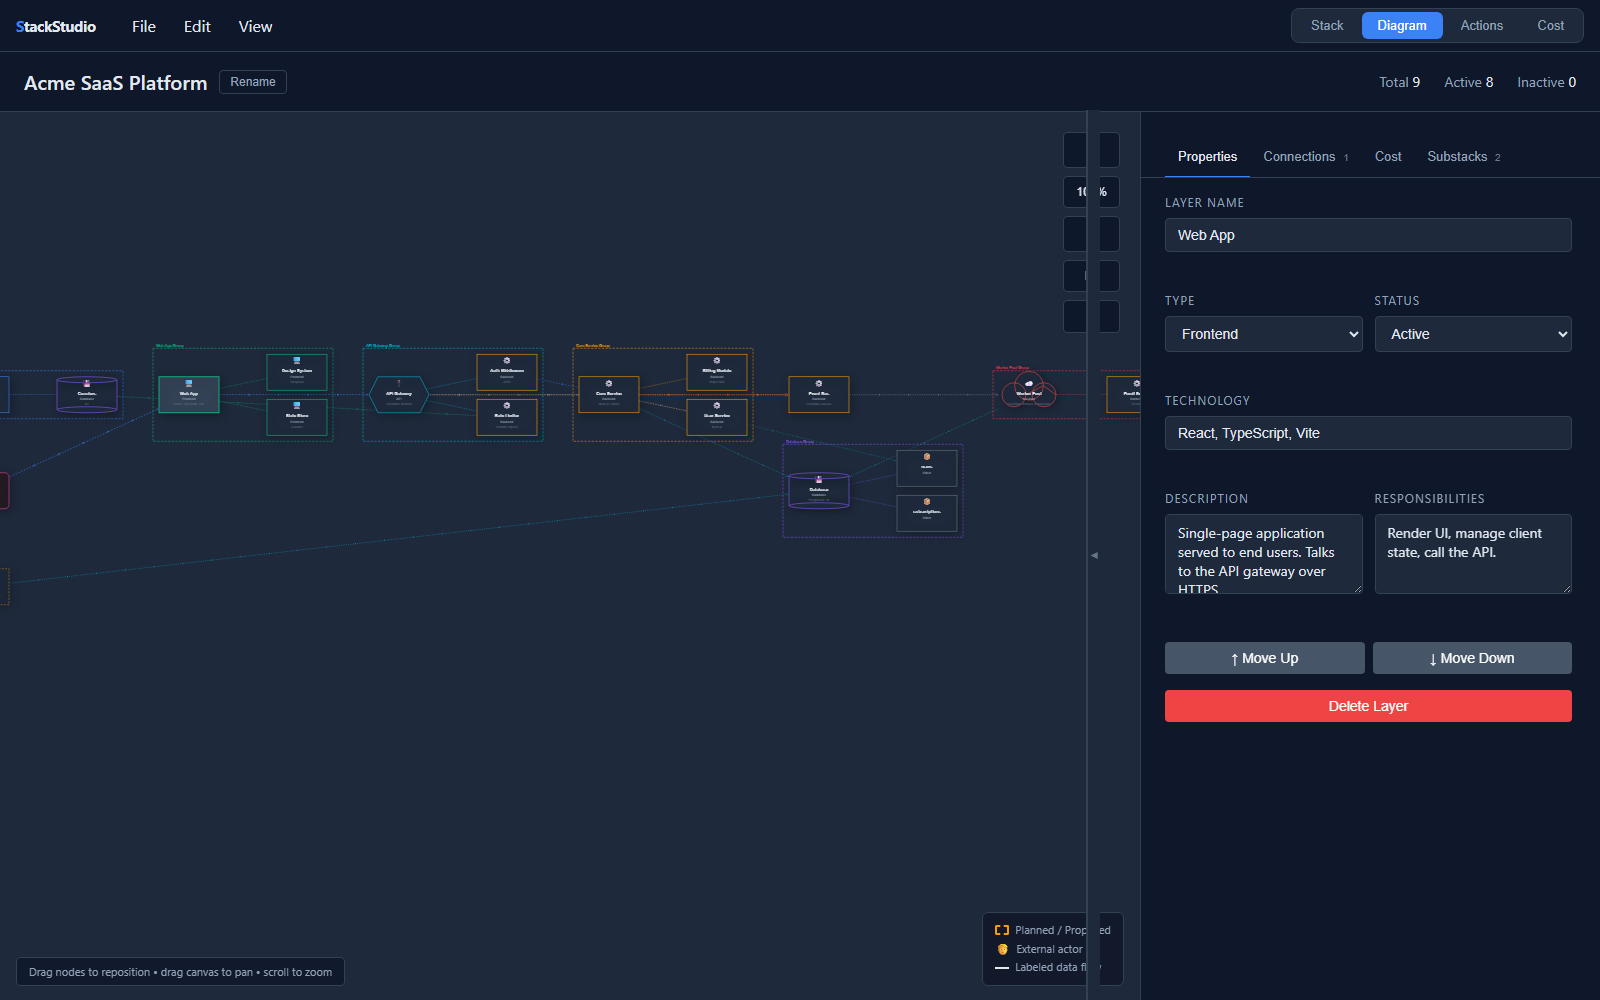
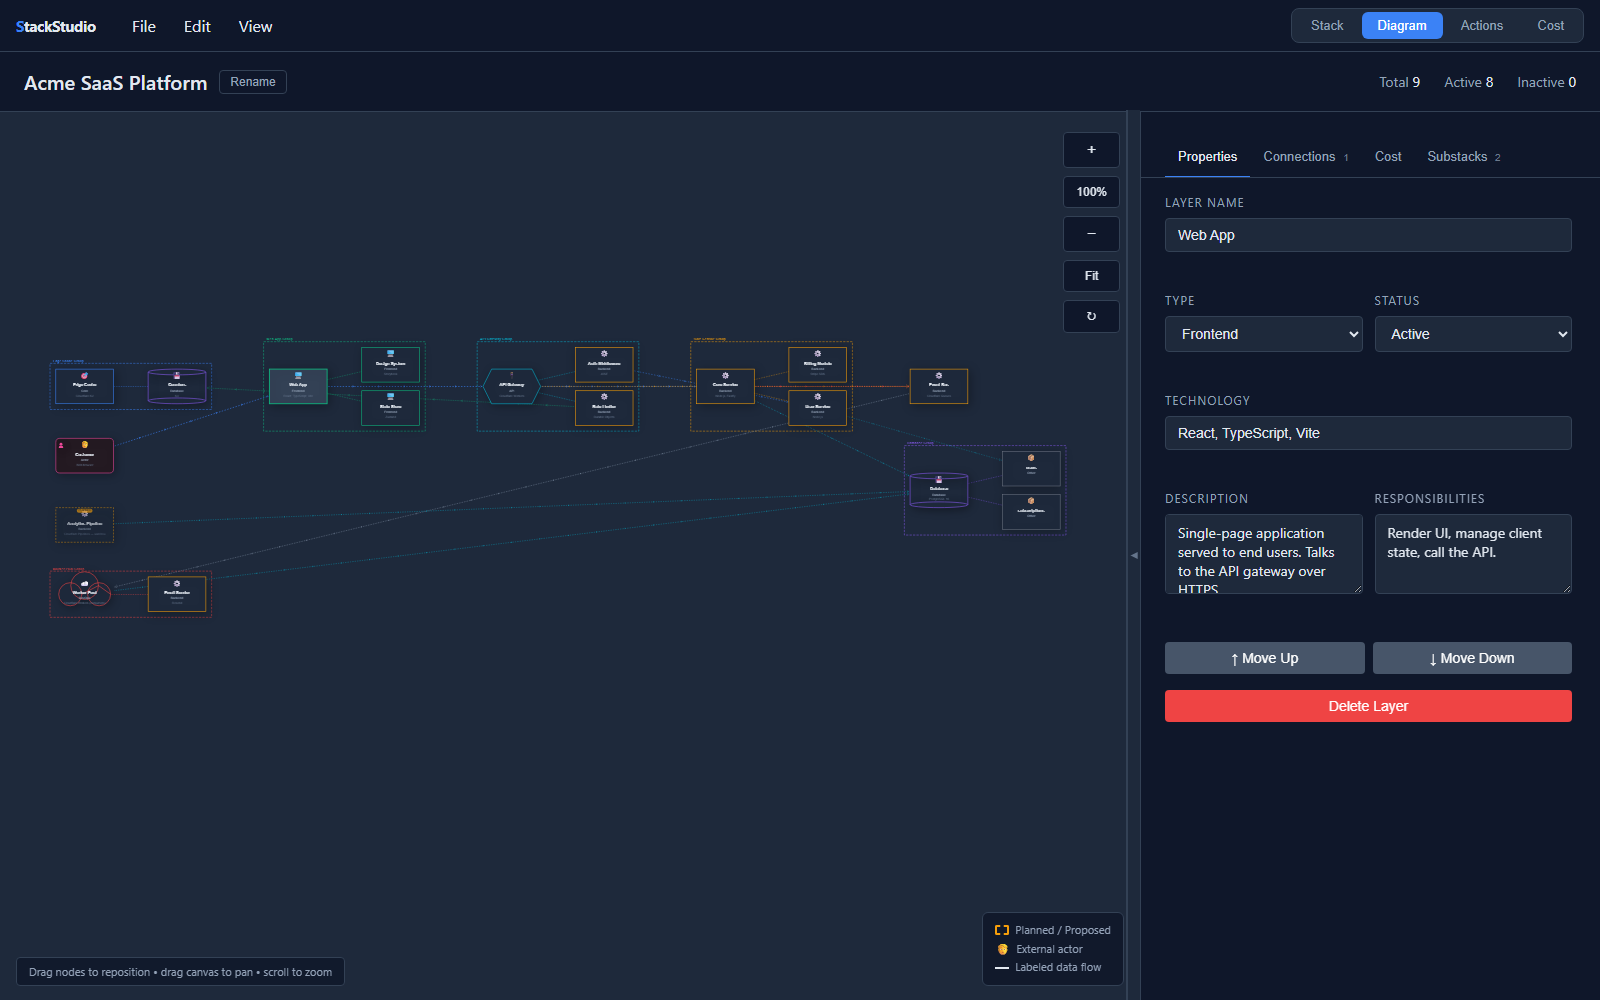
fix(ui): glue panel toggle to edge, add sidebar resize, denser diagram layout
Three fixes for working in large stacks:

1. Panel toggle was detached/floating — hardcoded at right:500px while the
   panel is 460px. Now both the panel and its toggle read a shared
   --panel-width CSS variable, so the handle stays glued to the edge.
2. Sidebar is now horizontally resizable via a drag handle on its left
   edge (min 300px, max 70vw), persisted to localStorage; canvas + stack
   carousel reflow live during drag.
3. Diagram layout for large/deep stacks: dependency levels are spaced by
   their actual content width (not a fixed 700px) and long chains wrap into
   rows. On a 40-node fixture this took the aspect ratio from 5.7:1 (a wide
   unreadable ribbon) to ~0.94:1 with zero node overlaps. Fit-zoom floor
   lowered so the whole graph fits.

- Add check-panel.mjs (toggle gluing, resize clamps, collapse parking)

diff --git a/static/js/diagram.js b/static/js/diagram.js
@@ -152,7 +152,7 @@ function zoomToFit() {
     const scaleX = (canvas.width * 0.9) / contentWidth;
     const scaleY = (canvas.height * 0.9) / contentHeight;
 
-    zoomLevel = Math.max(0.3, Math.min(scaleX, scaleY, 2));
+    zoomLevel = Math.max(0.15, Math.min(scaleX, scaleY, 2));
     panX = (canvas.width / 2 - (minX + maxX) / 2 * zoomLevel);
     panY = (canvas.height / 2 - (minY + maxY) / 2 * zoomLevel);
 
@@ -200,11 +200,63 @@ function recalculateLayout() {
     // Layout parameters
     const baseX = 200;
     const baseY = 200;
-    const levelSpacing = 700;
     const nodeWidth = 200;
     const nodeHeight = 120;
-    const minVerticalSpacing = 200; // Minimum space between node centers
-    const minHorizontalSpacing = 250; // Minimum space between nodes horizontally
+    const minVerticalSpacing = 120; // space between sibling subtrees in a level
+    const minHorizontalSpacing = 250;
+    const childXStep = 320;          // horizontal step per nesting level
+    const levelGap = 220;            // gap between a level's right edge and the next level
+
+    // Max nesting depth under a node (a leaf = 0). Used to compute how far a
+    // level's subtrees extend rightward, so the next level can start clear of
+    // them instead of using a fixed (often-too-wide) column spacing.
+    function subtreeDepth(node) {
+        if (!node.substacks || node.substacks.length === 0) return 0;
+        return 1 + Math.max(...node.substacks.map(subtreeDepth));
+    }
+
+    // X coordinate for each dependency level, computed cumulatively so columns
+    // are spaced by their actual content width (fixes "massive + compact").
+    // Long chains are wrapped into multiple rows so the diagram stays close to
+    // the viewport aspect instead of becoming one very wide ribbon.
+    const sortedLevels = Object.keys(layersByLevel).map(Number).sort((a, b) => a - b);
+    const MAX_COLS_PER_ROW = 5;   // wrap the dependency flow after this many levels
+    const ROW_GAP = 420;          // vertical gap between wrapped bands
+    const levelX = {};
+    const levelRow = {};
+    let cursorX = baseX;
+    let rowStartLevel = 0;
+    sortedLevels.forEach((level, idx) => {
+        const col = idx % MAX_COLS_PER_ROW;
+        if (col === 0 && idx > 0) {
+            cursorX = baseX;           // new band: reset X
+            rowStartLevel = idx;
+        }
+        levelX[level] = cursorX;
+        levelRow[level] = Math.floor(idx / MAX_COLS_PER_ROW);
+        const maxDepth = Math.max(0, ...layersByLevel[level].map(subtreeDepth));
+        const extent = nodeWidth + maxDepth * childXStep;
+        cursorX += extent + levelGap;
+    });
+
+    // Per-row vertical offset: each wrapped band sits below the previous one,
+    // clear of its tallest content.
+    const rowBaseY = {};
+    {
+        let y = baseY;
+        const rows = Math.max(0, ...Object.values(levelRow)) + 1;
+        for (let row = 0; row < rows; row++) {
+            rowBaseY[row] = y;
+            // Height of this row = max total leaves across its levels.
+            let maxLeaves = 1;
+            sortedLevels.forEach((lv, i) => {
+                if (Math.floor(i / MAX_COLS_PER_ROW) === row) {
+                    layersByLevel[lv].forEach(l => { maxLeaves = Math.max(maxLeaves, countLeaves(l)); });
+                }
+            });
+            y += maxLeaves * 150 + ROW_GAP;
+        }
+    }
     
     // Track occupied regions for collision detection
     const occupiedRegions = [];
@@ -258,20 +310,20 @@ function recalculateLayout() {
         });
     }
     
-    // Position layers level by level (left to right)
+    // Position layers level by level (left to right, wrapping into rows)
     Object.keys(layersByLevel).sort((a, b) => a - b).forEach(level => {
         const layersInLevel = layersByLevel[level];
-        let currentY = baseY;
+        let currentY = rowBaseY[levelRow[parseInt(level)]] || baseY;
         
         layersInLevel.forEach((layer, idx) => {
             // Reserve vertical space based on the layer's total leaf count
             // (full subtree), not just direct children, so deep trees don't
             // collide with the next top-level layer.
             const totalLeaves = countLeaves(layer);
-            const layerHeight = totalLeaves > 1 ? totalLeaves * 160 : 120;
+            const layerHeight = totalLeaves > 1 ? totalLeaves * 150 : 120;
             
             const basePosition = {
-                x: baseX + (parseInt(level) * levelSpacing),
+                x: levelX[parseInt(level)],   // content-aware column X
                 y: currentY
             };
             
@@ -294,8 +346,8 @@ function recalculateLayout() {
     
     // Position substacks relative to parents, recursively to any depth. Each
     // level steps further right; siblings are stacked vertically and spaced by
-    // their own subtree height so deep trees don't overlap.
-    const childXStep = 360;
+    // their own subtree height so deep trees don't overlap. (childXStep is
+    // defined above and shared with the column-extent calc.)
     const leafSpacing = 150;
 
     function placeChildren(node) {

diff --git a/static/js/app.js b/static/js/app.js
@@ -105,6 +105,63 @@ function redo() {
     }
 }
 
+// Persist + apply the sidebar width via the shared --panel-width CSS variable,
+// which both the panel and its toggle handle read (keeps them glued together).
+const PANEL_WIDTH_KEY = 'ztack_panel_width';
+const PANEL_MIN_WIDTH = 300;
+
+function setPanelWidth(px) {
+    const maxPx = Math.round(window.innerWidth * 0.7);
+    const clamped = Math.max(PANEL_MIN_WIDTH, Math.min(px, maxPx));
+    document.documentElement.style.setProperty('--panel-width', clamped + 'px');
+    try { localStorage.setItem(PANEL_WIDTH_KEY, String(clamped)); } catch (e) {}
+    return clamped;
+}
+
+// Drag-to-resize the details panel from its left edge.
+function initPanelResize() {
+    const handle = document.getElementById('panel-resize-handle');
+    const panel = document.getElementById('details-panel');
+    if (!handle || !panel) return;
+
+    // Restore a saved width.
+    const saved = parseInt(localStorage.getItem(PANEL_WIDTH_KEY) || '', 10);
+    if (!isNaN(saved)) setPanelWidth(saved);
+
+    let dragging = false;
+
+    const onMove = (e) => {
+        if (!dragging) return;
+        // Panel is anchored to the right; width grows as the cursor moves left.
+        setPanelWidth(window.innerWidth - e.clientX);
+        if (currentView === 'diagram' && canvas) resizeCanvas();
+    };
+
+    const onUp = () => {
+        if (!dragging) return;
+        dragging = false;
+        panel.classList.remove('resizing');
+        handle.classList.remove('active');
+        document.removeEventListener('mousemove', onMove);
+        document.removeEventListener('mouseup', onUp);
+        // Final reflow for the stack carousel (which positions by pane width).
+        if (currentView === 'stack') {
+            selectLayer(inSubstack ? selectedSubstackIndex : selectedLayerIndex, true);
+        }
+    };
+
+    handle.addEventListener('mousedown', (e) => {
+        // Don't resize while collapsed.
+        if (panel.classList.contains('collapsed')) return;
+        e.preventDefault();
+        dragging = true;
+        panel.classList.add('resizing');
+        handle.classList.add('active');
+        document.addEventListener('mousemove', onMove);
+        document.addEventListener('mouseup', onUp);
+    });
+}
+
 // Toggle details panel
 function toggleDetailsPanel() {
     const panel = document.getElementById('details-panel');
@@ -1712,6 +1769,8 @@ document.addEventListener('DOMContentLoaded', () => {
     });
 
     // Submenus (e.g. Templates) open on hover via CSS; no JS needed.
+
+    initPanelResize();
 
     document.addEventListener('click', () => {
         document.querySelectorAll('.dropdown-menu.open').forEach(d => d.classList.remove('open'));

diff --git a/static/css/style.css b/static/css/style.css
@@ -405,20 +405,43 @@ body {
 }
 
 .right-frame {
-    width: 460px;
-    /* Don't let the sidebar starve the stack/diagram pane on smaller windows.
-       It was a hard 500px, which left ~300px for the canvas at ~800px wide. */
-    max-width: 40vw;
-    min-width: 320px;
+    width: var(--panel-width, 460px);
+    /* Bounds for the resizable sidebar. min keeps it usable; max stops it from
+       starving the canvas on small windows. */
+    max-width: 70vw;
+    min-width: 300px;
     background: #0f172a;
     border-left: 1px solid #334155;
     padding: 24px;
     overflow-y: auto;
-    transition: transform 0.3s ease, width 0.3s ease;
+    transition: transform 0.3s ease;
     position: relative;
     flex-shrink: 0;
     display: flex;
     flex-direction: column;
+}
+
+/* While the user is dragging the resize handle, suppress the width transition
+   so it tracks the cursor 1:1. */
+.right-frame.resizing {
+    transition: none;
+    user-select: none;
+}
+
+/* Drag handle on the panel's left edge for horizontal resize. */
+.panel-resize-handle {
+    position: absolute;
+    left: -3px;
+    top: 0;
+    bottom: 0;
+    width: 6px;
+    cursor: col-resize;
+    z-index: 5;
+}
+
+.panel-resize-handle:hover,
+.panel-resize-handle.active {
+    background: #3b82f6;
 }
 
 .right-frame.collapsed {
@@ -436,14 +459,17 @@ body {
 
 .panel-toggle {
     position: fixed;
-    right: 500px;
+    /* Track the live panel width so the handle stays glued to the panel's left
+       edge (it was hardcoded at 500px while the panel was 460px, leaving it
+       floating over the canvas). */
+    right: var(--panel-width, 460px);
     top: 110px;
     bottom: 0;
     width: 14px;
     background: #1e293b;
     border-left: 2px solid #334155;
     cursor: pointer;
-    transition: right 0.3s ease, background 0.2s, width 0.2s;
+    transition: background 0.2s, width 0.2s;
     z-index: 1000;
     display: flex;
     align-items: center;

diff --git a/index.html b/index.html
@@ -110,6 +110,7 @@
         </div>
 
         <div class="right-frame" id="details-panel">
+            <div class="panel-resize-handle" id="panel-resize-handle" title="Drag to resize"></div>
             <div id="layer-details" class="layer-details">
                 <p class="no-selection">Select a layer to view details</p>
             </div>